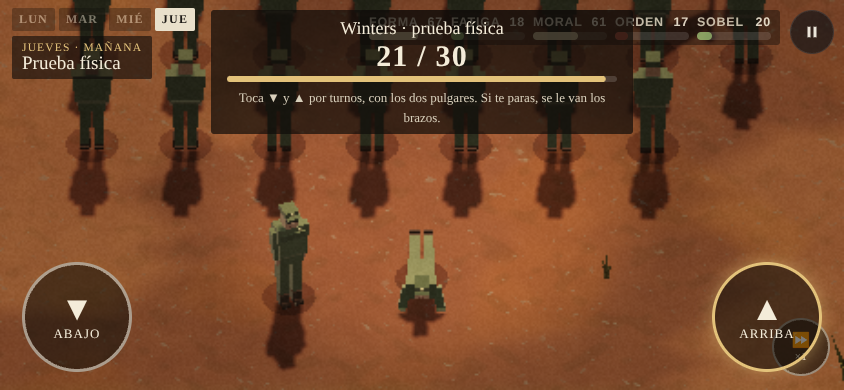
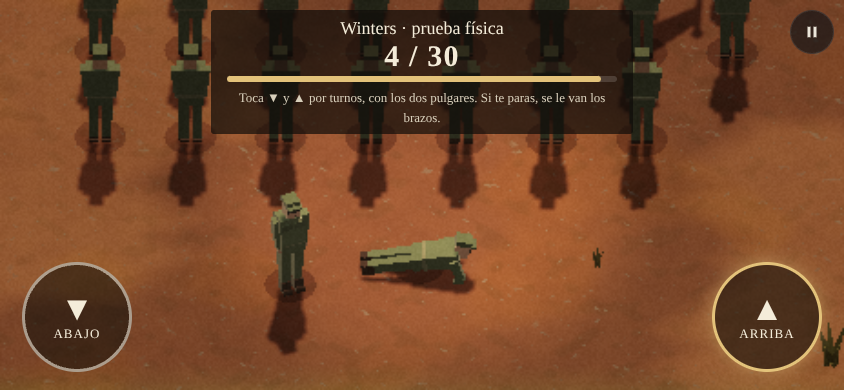
Ronda 2: flexiones de Winters sin fallos al salir o pausar, brazos que se cansan, vista de perfil; estado.md con la crítica
Claude-Session: https://claude.ai/code/session_01SfgSjzzpR3xDnAsfPbbJcL

diff --git a/juego.html b/juego.html
@@ -9886,6 +9886,7 @@ void main(){
 .wk .meters{flex:1;display:flex;gap:8px;justify-content:flex-end;min-width:0}
 .mtr{flex:0 1 106px;min-width:60px}
 .mtr i em.mk{position:absolute;top:-2px;width:2px;height:12px;margin-left:-1px;background:rgba(255,255,255,.75)}
+.mtr[data-m=sobel] i em.mk::after{top:auto;bottom:13px}
 .mtr i em.mk::after{content:attr(data-t);position:absolute;top:13px;left:50%;transform:translateX(-50%);font:600 11px 'Barlow Condensed';font-style:normal;color:#cfc6b2;white-space:nowrap}
 .mtr span{display:flex;justify-content:space-between;gap:4px;font:600 12.5px 'Barlow Condensed',sans-serif;letter-spacing:.06em;text-transform:uppercase;color:#d8cfbb;white-space:nowrap}
 .mtr span em{font-style:normal;color:#f4ecd9}
@@ -10869,14 +10870,14 @@ ${mine}`,
   function pushGame(camp) {
     const { ui, audio, roster, G } = camp.ctx;
     if (camp.hud?.setSpeed) camp.hud.setSpeed(1);
-    return new Promise((resolve) => {
+    return new Promise((resolve, reject) => {
       const win = camp.win;
-      camp.place(win, -75.3, -6, FACE_UP);
+      camp.place(win, -75.3, -6, ANG_RIGHT);
       camp.place(camp.sobel, -78, -6.6, FACE_UP + 0.4);
       camp.pose([win], { push: 1 });
       win._manual = true;
       win.st.dph = 0;
-      camp.look(-75.3, -3.5, 9);
+      camp.look(-75.3, -4.5, 8);
       const fat = roster.get("winters")?.fatigue || 0;
       const grace = 1.5 - Math.min(0.7, fat / 120);
       const w = document.createElement("div");
@@ -10884,7 +10885,7 @@ ${mine}`,
       w.innerHTML = `<div class="pg-top"><b>Winters \xB7 prueba f\xEDsica</b><span class="n">0 / 30</span><i><u></u></i><small>Toca \u25BC y \u25B2 por turnos, con los dos pulgares. Si te paras, se le van los brazos.</small></div>
       <button class="pg-b dn" aria-label="Abajo">\u25BC<small>abajo</small></button><button class="pg-b up" aria-label="Arriba">\u25B2<small>arriba</small></button>`;
       ui.root.appendChild(w);
-      if (camp.hud?.el) camp.hud.el.style.visibility = "hidden";
+      if (camp.hud?.el) camp.hud.el.style.display = "none";
       let reps = 0, next = "dn", last = performance.now(), t0 = null, done = false, raf = 0;
       const n = w.querySelector(".n"), bar = w.querySelector("u");
       const press = (side) => {
@@ -10909,15 +10910,18 @@ ${mine}`,
         next = side === "dn" ? "up" : "dn";
         w.querySelectorAll(".pg-b").forEach((b) => b.classList.toggle("want", b.classList.contains(next)));
       };
-      const finish = () => {
+      const cleanup = () => {
         done = true;
         cancelAnimationFrame(raf);
         removeEventListener("keydown", key);
         win._manual = false;
+        w.remove();
+        if (camp.hud?.el) camp.hud.el.style.display = "";
+      };
+      const finish = () => {
+        cleanup();
         camp.pose([win]);
         const time = t0 == null ? 99 : (performance.now() - t0) / 1e3;
-        w.remove();
-        if (camp.hud?.el) camp.hud.el.style.visibility = "";
         if (reps >= 30) {
           for (const m of camp.men) roster.mood(m.id, time < 11 ? 3 : 2);
           roster.tension(time < 11 ? 3 : 1);
@@ -10927,9 +10931,15 @@ ${mine}`,
       };
       const loop = () => {
         if (done) return;
+        if (G.paused) {
+          last = performance.now();
+          raf = requestAnimationFrame(loop);
+          return;
+        }
         const held = (performance.now() - last) / 1e3;
-        bar.style.transform = `scaleX(${Math.max(0, 1 - held / grace).toFixed(3)})`;
-        if (t0 != null && held > grace) return finish();
+        const g = grace * (1 - reps / 30 * 0.45);
+        bar.style.transform = `scaleX(${Math.max(0, 1 - held / g).toFixed(3)})`;
+        if (t0 != null && held > g) return finish();
         raf = requestAnimationFrame(loop);
       };
       raf = requestAnimationFrame(loop);
@@ -10941,7 +10951,11 @@ ${mine}`,
       };
       addEventListener("keydown", key);
       w.querySelector(".dn").classList.add("want");
-      G.until(() => done).catch(() => !done && finish());
+      G.until(() => done).catch((e) => {
+        if (done) return;
+        cleanup();
+        reject(e);
+      });
     });
   }
   async function semana(ctx, n) {

diff --git a/src/chapters/currahee/semana.js b/src/chapters/currahee/semana.js
@@ -741,14 +741,14 @@ async function sobelTest(camp) {
 function pushGame(camp) {
   const { ui, audio, roster, G } = camp.ctx;
   if (camp.hud?.setSpeed) camp.hud.setSpeed(1);
-  return new Promise((resolve) => {
+  return new Promise((resolve, reject) => {
     const win = camp.win;
-    camp.place(win, -75.3, -6, FACE_UP);
+    camp.place(win, -75.3, -6, ANG_RIGHT); // side-on to the camera, so the push-up reads as one
     camp.place(camp.sobel, -78, -6.6, FACE_UP + 0.4);
     camp.pose([win], { push: 1 });
     win._manual = true;
     win.st.dph = 0;
-    camp.look(-75.3, -3.5, 9);
+    camp.look(-75.3, -4.5, 8);
     const fat = roster.get("winters")?.fatigue || 0;
     const grace = 1.5 - Math.min(0.7, fat / 120); // how long he can hold a position before his arms give out
     const w = document.createElement("div");
@@ -756,7 +756,7 @@ function pushGame(camp) {
     w.innerHTML = `<div class="pg-top"><b>Winters · prueba física</b><span class="n">0 / 30</span><i><u></u></i><small>Toca ▼ y ▲ por turnos, con los dos pulgares. Si te paras, se le van los brazos.</small></div>
       <button class="pg-b dn" aria-label="Abajo">▼<small>abajo</small></button><button class="pg-b up" aria-label="Arriba">▲<small>arriba</small></button>`;
     ui.root.appendChild(w);
-    if (camp.hud?.el) camp.hud.el.style.visibility = "hidden"; // the test has the screen to itself
+    if (camp.hud?.el) camp.hud.el.style.display = "none"; // the test has the screen to itself
     let reps = 0, next = "dn", last = performance.now(), t0 = null, done = false, raf = 0;
     const n = w.querySelector(".n"), bar = w.querySelector("u");
     const press = (side) => {
@@ -782,15 +782,18 @@ function pushGame(camp) {
       next = side === "dn" ? "up" : "dn";
       w.querySelectorAll(".pg-b").forEach((b) => b.classList.toggle("want", b.classList.contains(next)));
     };
-    const finish = () => {
+    const cleanup = () => {
       done = true;
       cancelAnimationFrame(raf);
       removeEventListener("keydown", key);
       win._manual = false;
+      w.remove();
+      if (camp.hud?.el) camp.hud.el.style.display = "";
+    };
+    const finish = () => {
+      cleanup();
       camp.pose([win]);
       const time = t0 == null ? 99 : (performance.now() - t0) / 1000;
-      w.remove();
-      if (camp.hud?.el) camp.hud.el.style.visibility = "";
       // the men notice an officer who can do what he asks of them (invented)
       if (reps >= 30) {
         for (const m of camp.men) roster.mood(m.id, time < 11 ? 3 : 2);
@@ -802,9 +805,15 @@ function pushGame(camp) {
     // his arms give out if he stalls
     const loop = () => {
       if (done) return;
+      if (G.paused) {
+        last = performance.now(); // the pause menu doesn't count against his arms
+        raf = requestAnimationFrame(loop);
+        return;
+      }
       const held = (performance.now() - last) / 1000;
-      bar.style.transform = `scaleX(${Math.max(0, 1 - held / grace).toFixed(3)})`;
-      if (t0 != null && held > grace) return finish();
+      const g = grace * (1 - (reps / 30) * 0.45); // his arms tire as the count climbs
+      bar.style.transform = `scaleX(${Math.max(0, 1 - held / g).toFixed(3)})`;
+      if (t0 != null && held > g) return finish();
       raf = requestAnimationFrame(loop);
     };
     raf = requestAnimationFrame(loop);
@@ -816,7 +825,12 @@ function pushGame(camp) {
     };
     addEventListener("keydown", key);
     w.querySelector(".dn").classList.add("want");
-    G.until(() => done).catch(() => !done && finish()); // aborted (exit to title): clean up
+    // aborted (exit to title): clean up and let the week's finally run, without showing the result
+    G.until(() => done).catch((e) => {
+      if (done) return;
+      cleanup();
+      reject(e);
+    });
   });
 }
 

diff --git a/src/core/weekui.js b/src/core/weekui.js
@@ -16,6 +16,7 @@ const CSS = `
 .wk .meters{flex:1;display:flex;gap:8px;justify-content:flex-end;min-width:0}
 .mtr{flex:0 1 106px;min-width:60px}
 .mtr i em.mk{position:absolute;top:-2px;width:2px;height:12px;margin-left:-1px;background:rgba(255,255,255,.75)}
+.mtr[data-m=sobel] i em.mk::after{top:auto;bottom:13px}
 .mtr i em.mk::after{content:attr(data-t);position:absolute;top:13px;left:50%;transform:translateX(-50%);font:600 11px 'Barlow Condensed';font-style:normal;color:#cfc6b2;white-space:nowrap}
 .mtr span{display:flex;justify-content:space-between;gap:4px;font:600 12.5px 'Barlow Condensed',sans-serif;letter-spacing:.06em;text-transform:uppercase;color:#d8cfbb;white-space:nowrap}
 .mtr span em{font-style:normal;color:#f4ecd9}

diff --git a/docs/estado.md b/docs/estado.md
@@ -8,7 +8,19 @@
 - **Lo que pasa a la carrera:** la forma de cada hombre menos su fatiga, más su moral, decide quién flaquea en la carrera de los espaguetis. En la simulación, un plan equilibrado deja al pelotón en 75,7 de forma efectiva; solo calistenia, en 61 (llegan reventados); solo descanso, en 72.
 - **Sonido nuevo** (`engine/camp-audio.js`): toques de corneta de armónicos naturales (diana, retreta), sello de goma de Sobel, máquina de escribir de las órdenes, pala, conteo coral de la calistenia; la inspección casi en silencio.
 - **Poses nuevas** de los soldados: saltos de tijera, flexiones, saludo, cavar, sentado.
+- **Decisiones durante la semana:** a quién le pides que tire de los hombres cuando Sobel manda a Winters a las letrinas (Lipton o Guarnere); qué hace Winters después de la inspección (hablar con Sobel en privado, ayudar al castigado, dejarlo estar); la marcha nocturna (cumplir la orden o hacer la vista gorda); las treinta flexiones de Winters, que se juegan con los dos pulgares; y la revista de barracones del jueves de la semana 2.
+- **Pausa y guardado:** la pausa funciona en todo el modo; si guardas o sales a mitad de semana, se conserva la semana tal como empezó (nunca a medias).
 - Capturas apaisadas: `docs/capturas/currahee-ronda-2/`.
+
+**Crítica (subagentes, Playwright apaisado 844×390 táctil):**
+| Crítico | Ronda 1 | Ronda 2 | Ronda 3 | Ronda 4 |
+|---|---|---|---|---|
+| Diseño y jugabilidad móvil | 5 | 7 | 7,5 | **8** |
+| Música y sonido | 5 | 7 | **8** | |
+| Fidelidad histórica | 7,5 | **9** | | |
+Sin errores de consola en el capítulo completo (llegada → dos semanas → espaguetis → segunda carrera → cierre).
+
+**Pendiente del modo base:** calibrar con el bot el umbral de «hombres en riesgo»; bus de interfaz seco para el papel y los sellos; llamada y respuesta de Winters en el conteo; un evento de aborto común para quitar escuchas de teclado; comparar la marca de Sobel de la semana 2 con el valor del miércoles. Probar en un teléfono real.
 
 ## Juego unificado · Capítulo I, Currahee (ronda 1)
 `juego.html` es el comienzo del juego completo: un solo programa que recorre el libro y cambia de modo dentro de cada capítulo, con la misma cámara y sin pantallas de carga.
@@ -43,7 +55,7 @@ Sin errores de consola en el capítulo completo.
 
 **Cambio de regla en el Día D:** Winters sobrevive a la guerra en el libro, así que si cae en Brécourt se vuelve al punto de control. Se quitó la rama «Lipton toma el mando».
 
-**Pendiente en el Capítulo I (rondas siguientes):** base (horario semanal, permisos y tensión con Sobel), pista de obstáculos y campo de tiro, maniobras nocturnas (sigilo), casa de prácticas (asalto), ejercicios de defensa (línea), marcha a Atlanta y salto en Fort Benning.
+**Pendiente en el Capítulo I (rondas siguientes):** pista de obstáculos y campo de tiro, maniobras nocturnas (sigilo), casa de prácticas (asalto), ejercicios de defensa (línea), marcha a Atlanta y salto en Fort Benning.
 
 ---
 
